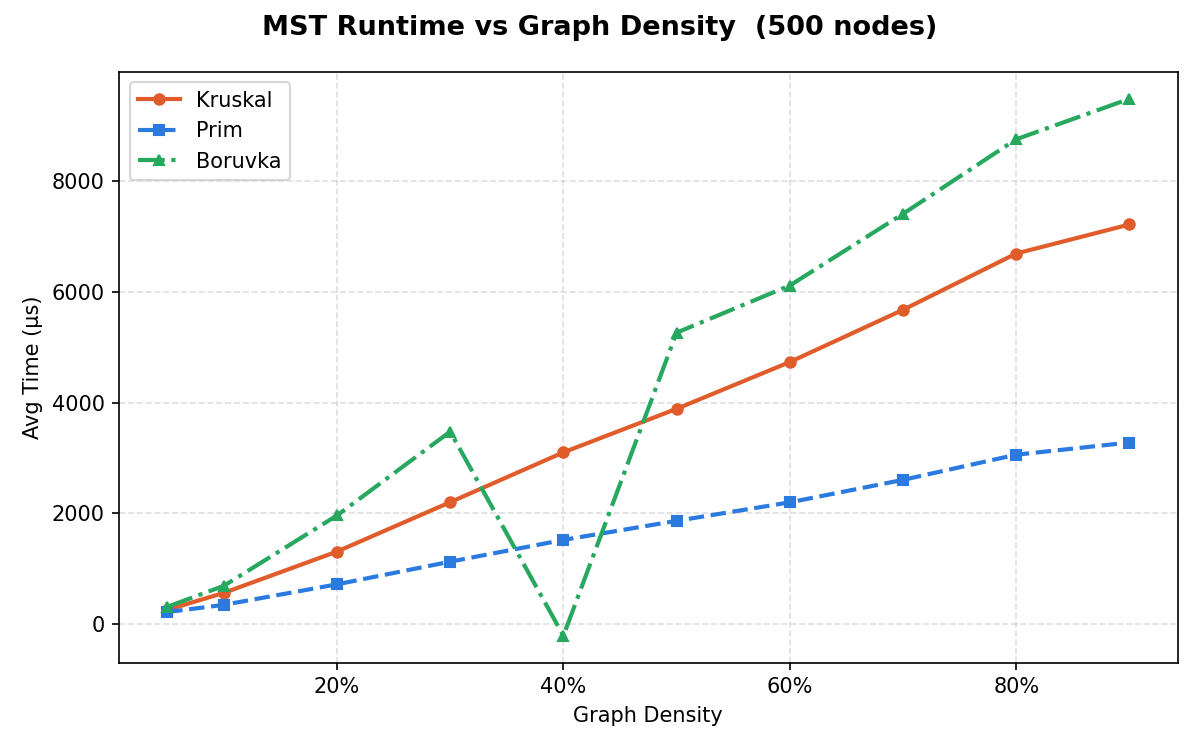
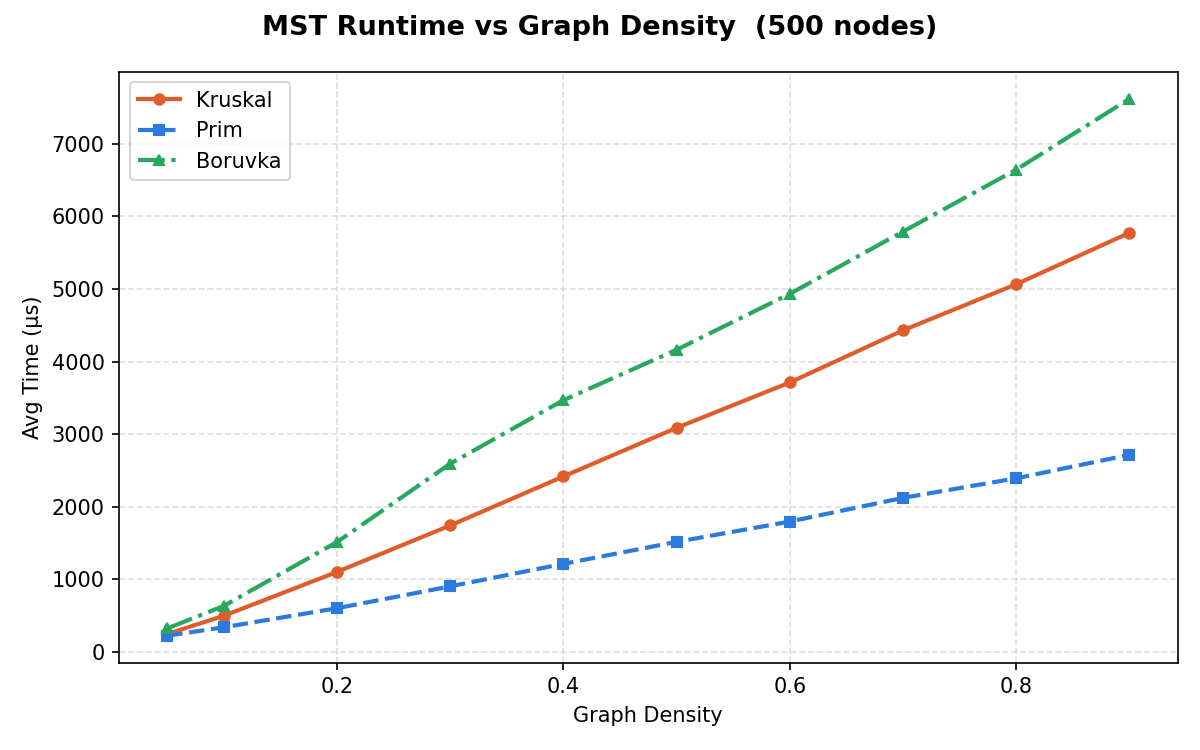
i hate deadlines

diff --git a/benchmark_plot.py b/benchmark_plot.py
@@ -122,6 +122,68 @@ def plot_density_vs_time(data, nodes_list, out_dir, logscale=False):
         print(f"Saved: {path}")
         plt.close()
 
+
+def plot_all_combined(data, nodes_list, out_dir, logscale=False):
+    """One figure with all node counts as subplots side by side."""
+    valid = [n for n in nodes_list if data[n]]
+    if not valid:
+        return
+
+    ncols = min(len(valid), 2)
+    nrows = (len(valid) + ncols - 1) // ncols
+    scale_label = " (log scale)" if logscale else ""
+    fig, axes = plt.subplots(nrows, ncols,
+                             figsize=(7 * ncols, 5 * nrows),
+                             squeeze=False)
+    fig.suptitle(f"MST Runtime vs Graph Density{scale_label}",
+                 fontsize=15, fontweight="bold")
+
+    for idx, nodes in enumerate(valid):
+        ax = axes[idx // ncols][idx % ncols]
+        rows = data[nodes]
+        densities = [r[0] for r in rows]
+        times = {
+            "Kruskal": [r[2] for r in rows],
+            "Prim":    [r[3] for r in rows],
+            "Boruvka": [r[4] for r in rows],
+        }
+
+        for algo, ys in times.items():
+            s = ALGO_STYLE[algo]
+            ax.plot(densities, ys, label=algo,
+                    color=s["color"], marker=s["marker"],
+                    linestyle=s["linestyle"], linewidth=2, markersize=5)
+
+        if logscale:
+            ax.set_xscale("log")
+            ax.set_yscale("log")
+            ax.set_xticks(densities)
+            ax.xaxis.set_major_formatter(ticker.FuncFormatter(
+                lambda x, _: f"{x:.4g}"
+            ))
+            plt.setp(ax.get_xticklabels(), rotation=45, ha="right")
+        else:
+            ax.xaxis.set_major_formatter(ticker.FuncFormatter(
+                lambda x, _: f"{x:.2g}"
+            ))
+
+        ax.set_title(f"{nodes} nodes", fontsize=12)
+        ax.set_xlabel("Graph Density")
+        ax.set_ylabel("Avg Time (µs)")
+        ax.legend(fontsize=9)
+        ax.grid(True, linestyle="--", alpha=0.4)
+
+    # Hide any unused subplots
+    for idx in range(len(valid), nrows * ncols):
+        axes[idx // ncols][idx % ncols].set_visible(False)
+
+    plt.tight_layout()
+    suffix = "_log" if logscale else ""
+    path = os.path.join(out_dir, f"all_combined{suffix}.png")
+    plt.savefig(path, dpi=150)
+    print(f"Saved: {path}")
+    plt.close()
+
 # ── main ──────────────────────────────────────────────────────────────────────
 
 def main():
@@ -168,8 +230,21 @@ def main():
             else:
                 print("FAILED")
 
-    print("\nGenerating plots...")
+    # ── Save raw data to CSV ──────────────────────────────────────────────────
+    import csv
+    csv_path = os.path.join(args.outdir, "raw_data.csv")
+    with open(csv_path, "w", newline="") as f:
+        writer = csv.writer(f)
+        writer.writerow(["nodes", "actual_density", "edges", "kruskal_us", "prim_us", "boruvka_us"])
+        for nodes in args.nodes:
+            for row in data[nodes]:
+                writer.writerow([nodes] + list(row))
+    print(f"\nRaw data saved: {csv_path}")
+
+    # ── Generate plots ────────────────────────────────────────────────────────
+    print("Generating plots...")
     plot_density_vs_time(data, args.nodes, args.outdir, logscale=args.logscale)
+    plot_all_combined(data, args.nodes, args.outdir, logscale=args.logscale)
 
     print("\nDone! Plots saved to:", os.path.abspath(args.outdir))
 

diff --git a/src/main.cpp b/src/main.cpp
@@ -8,8 +8,8 @@
 
 using namespace std::chrono;
 
-static constexpr int GRAPHS = 50;  // independent graphs generated per density
-static constexpr int RUNS   = 5;   // times each algorithm is run per graph
+static constexpr int GRAPHS = 100;  // independent graphs generated per density
+static constexpr int RUNS   = 10;   // times each algorithm is run per graph
 
 // ── helpers ───────────────────────────────────────────────────────────────────
 
